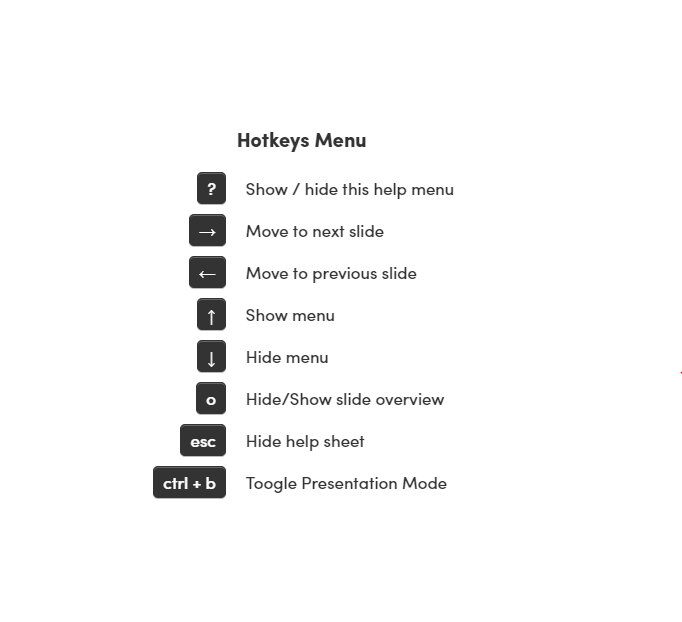
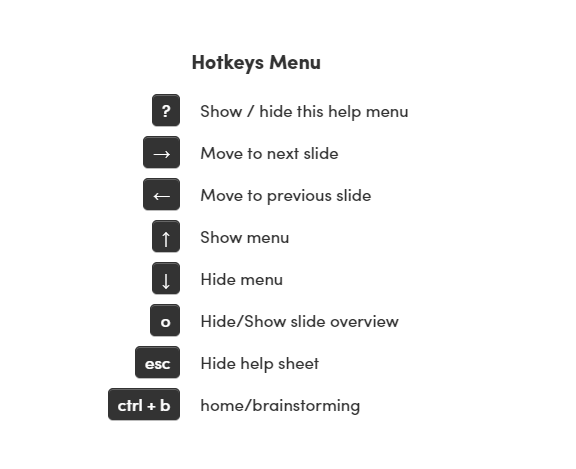
fix fonts styles

diff --git a/src/app/bsr/bsr.component.html b/src/app/bsr/bsr.component.html
@@ -33,31 +33,31 @@
 
 
       <!-- COMMENTS BOX -->
-      <div class="comment-to-top" cdkDrag cdkDragRootElement=".cdk-overlay-pane" cdkDragHandle fxLayout="col"
-        *ngIf="isCommentBox" fxLayoutAlign="center center">
-
+      <div class="comment-to-top" cdkDrag cdkDragRootElement=".cdk-overlay-pane" fxLayout="col" *ngIf="isCommentBox"
+        fxLayoutAlign="center center">
         <div fxFlex class="mat-elevation-z4 comment-box">
-          <div class="col">
+          <div cdkDragHandle style="height: 20px; width: 100%;"></div>
+          <div class="col" >
             <div class="row">
               <div class="handle" style="float: left; font-size: 9px;">.</div>
               <button (click)="displayCommentBox()" mat-stroked-button style="color: #004684;
-                      position: absolute;
-                      right: 7px;
-                      z-index: 9999;
-                      top: 201px;" color="primary" aria-label="LOG IN" [disabled]="loginForm.invalid">
+                 position: absolute;
+                 right: 7px;
+                 z-index: 9999;
+                 top: 185px;" color="primary" aria-label="LOG IN" [disabled]="loginForm.invalid">
                 CANCEL
               </button>
               <button (click)="comment()" mat-stroked-button style="color: #004684;
-                      position: absolute;
-                      right: 100px;
-                      z-index: 9999;
-                      top: 201px;" color="primary" aria-label="LOG IN" [disabled]="loginForm.invalid">
+                 position: absolute;
+                 right: 100px;
+                 z-index: 9999;
+                 top: 185px;" color="primary" aria-label="LOG IN" [disabled]="loginForm.invalid">
                 SUBMIT
               </button>
               <form name="loginForm" [formGroup]="loginForm" novalidate class="open-close-container">
-                <mat-form-field class="comment-field " appearance="outline">
+                <mat-form-field class="comment-field" appearance="outline">
                   <mat-label>Comment's Box</mat-label>
-                  <textarea matInput cdkTextareaAutosize cdkAutosizeMinRows="4"  [(ngModel)]="commentBoxText"
+                  <textarea matInput cdkTextareaAutosize cdkAutosizeMinRows="4" [(ngModel)]="commentBoxText"
                     formControlName="suma" cdkAutosizeMaxRows="4" appearance="outline" id="commentBox"></textarea>
                 </mat-form-field>
               </form>
@@ -103,8 +103,8 @@
           <mat-icon class="full-icon">note_add</mat-icon>
         </button>
 
-        <button *ngIf="!createPostIt" (click)="bsr()" mat-icon-button matTooltip="add post its" matTooltipPosition="above"
-          mat-icon-button color="warn" aria-label="aria">
+        <button *ngIf="!createPostIt" (click)="bsr()" mat-icon-button matTooltip="add post its"
+          matTooltipPosition="above" mat-icon-button color="warn" aria-label="aria">
           <mat-icon class="full-icon">lightbulb_outline</mat-icon>
         </button>
         <!-- <button mat-icon-button aria-label="Proprietary" style="width: 200px;">
@@ -120,8 +120,8 @@
         <button (click)="home()" mat-icon-button matTooltip="home" matTooltipPosition="above">
           <mat-icon class="full-icon">home</mat-icon>
         </button>
-        <button *ngIf="!createPostIt" (click)="bsr()" mat-icon-button matTooltip="brainstorming" matTooltipPosition="above"
-          mat-icon-button color="warn" aria-label="aria">
+        <button *ngIf="!createPostIt" (click)="bsr()" mat-icon-button matTooltip="brainstorming"
+          matTooltipPosition="above" mat-icon-button color="warn" aria-label="aria">
           <mat-icon class="full-icon">lightbulb_outline</mat-icon>
         </button>
         <button *ngIf="createPostIt" (click)="newBlankPostIt()" matTooltip="add post-it" matTooltipPosition="above"
@@ -286,13 +286,13 @@
 
                 <div class="row">
                   <div (click)="theme()" class="col brandstorm"
-                    style="color: white; font-size: 40px;font-family: Arial">
+                    style="color: white; font-size: 40px; font-family: Montserrat !important;">
                     Brainstorm
                   </div>
                   <div class="col " (click)="toggleNamebox()" [class.name-title]="!wide" [class.name-title-wide]="wide"
                     [matTooltip]="'Names Created: '+ nameCandidates.length" matTooltipPosition="right">
                     Names
-                    <span *ngIf="nameCandidates.length > 0" style="position: absolute;    top: 6px;
+                    <span *ngIf="nameCandidates.length > 0" style="position: absolute;    top: 6px; font-family: Montserrat !important;
                         right: 4px;" matBadgeColor="warn" [matBadgeHidden]="!(nameCandidates.length > 0)"
                       [matBadge]="nameCandidates.length" matBadgeSize="medium"></span>
                   </div>
@@ -322,7 +322,7 @@
                       [style.max-width]="namesBoxIndex == 1? '1320px': namesBoxIndex == 0 && wide?'931px': wide && createPostIt? '947px': '925px'"
                       dragula="TASKS" [dragulaModel]="conceptData.concepts"
                       (dragulaModelChange)="conceptData.concepts = $event">
-                      <div [ngClass]="postItListTheme" *ngFor="let item of conceptData.concepts; let i = index;">
+                      <div style="z-index: 999;" [ngClass]="postItListTheme" *ngFor="let item of conceptData.concepts; let i = index;">
 
                         <mat-card appearance="outlined" class="mat-elevation-z4 post-card">
                           <div class="emoji-handle">
@@ -347,7 +347,8 @@
                           <!-- HTML-CONTENT -->
                           <mat-card-content class="post-content" [ngStyle]="{'font-size': font_size_text}"
                             (click)="openDialog(item, 'edit')">
-                            <div class="ql-editor card-list" [style.font-size]="font_size_text" [innerHTML]="item.html"></div>
+                            <div class="ql-editor card-list" [style.font-size]="font_size_text" [innerHTML]="item.html">
+                            </div>
                           </mat-card-content>
 
                           <mat-icon class="deleteButton" (click)="openDialog(item, 'delete')">cancel</mat-icon>
@@ -485,8 +486,8 @@
                     <mat-icon>home</mat-icon>
                   </button>
 
-                  <button matTooltip="brainstorming" matTooltipPosition="above" (click)="newBlankPostIt()" mat-icon-button
-                    color="primary" aria-label="Example icon-button with a heart icon">
+                  <button matTooltip="brainstorming" matTooltipPosition="above" (click)="newBlankPostIt()"
+                    mat-icon-button color="primary" aria-label="Example icon-button with a heart icon">
                     <mat-icon>note_add</mat-icon>
                   </button>
 

diff --git a/src/app/bsr/bsr.component.scss b/src/app/bsr/bsr.component.scss
@@ -61,6 +61,8 @@
   left: 0;
   right: 0;
   background: #fff;
+  font-family: "Open Sans" ;
+  font-weight: 500;
 }
 
 .presentation-box {
@@ -424,7 +426,7 @@
 .name-title-wide {
   color: white;
   font-size: 30px;
-  font-family: Arial;
+  font-family: Montserrat !important;
   right: -694px;
   cursor: pointer;
 }
@@ -819,13 +821,13 @@ mat-tab-group ::-webkit-scrollbar {
 
 .comment-box {
   position: absolute;
-  // background-color: white;
   background-color: #fff;
   width: 100%;
-  top: 463px;
+  top: 346px;
   z-index: 99999;
   max-width: 560px;
   height: 250px;
+  left: 294px;
   border: aliceblue 2px solid;
   animation: bounceIn 0.5s ease-in-out 0s 1 forwards;
   overflow: hidden;
@@ -1199,7 +1201,7 @@ $postItHeaderColors2: #d6f8fd, #dcd6fd, #d6fde9, #fdfcd6, #d6f8fd, #fdd6e8, #fdd
 .ql-editor {
   white-space: normal !important;
   padding: 0px !important;
-  line-height: 0.8;
+  line-height: 1.2;
   li{
     list-style-type: unset !important;
   }

diff --git a/src/index.html b/src/index.html
@@ -3,7 +3,7 @@
 
 <head>
   <meta charset="utf-8">
-  <title>BSR v.1.1.9</title>
+  <title>BSR v.1.2.0</title>
   <base href="/">
 
   <!-- DESKTOP -->
@@ -40,7 +40,7 @@
   </script>
   <link href="https://fonts.googleapis.com/icon?family=Material+Icons" rel="stylesheet">
   <link rel="stylesheet" href="https://cdn.jsdelivr.net/npm/bootstrap-icons@1.11.1/font/bootstrap-icons.css">
-
+  <link href="https://fonts.googleapis.com/css2?family=Fira+Sans:ital,wght@0,100;0,200;0,300;0,400;0,500;0,600;0,700;0,800;0,900;1,100;1,200;1,300;1,400;1,500;1,600;1,700;1,800;1,900&family=Montserrat:ital,wght@0,100..900;1,100..900&family=Open+Sans:ital,wght@0,300..800;1,300..800&display=swap" rel="stylesheet">
 </head>
 
 <body class="mat-typography">

diff --git a/src/styles.scss b/src/styles.scss
@@ -1,3 +1,4 @@
+
 app-survey-creation-design {
     /* Estilos específicos para app-survey-creation-design */
     width: 100%;
@@ -102,3 +103,14 @@ app-dashboard {
     padding: 8px;
 }
 
+.comment-box {
+    .mdc-text-field--outlined .mdc-notched-outline {
+        padding: 0px 0px 0 15px;
+    }
+}
+.comment-box {
+    .mat-mdc-text-field-wrapper.mdc-text-field--outlined .mdc-text-field__input {
+        padding: 0px 0px 0 15px;
+
+    }
+}
